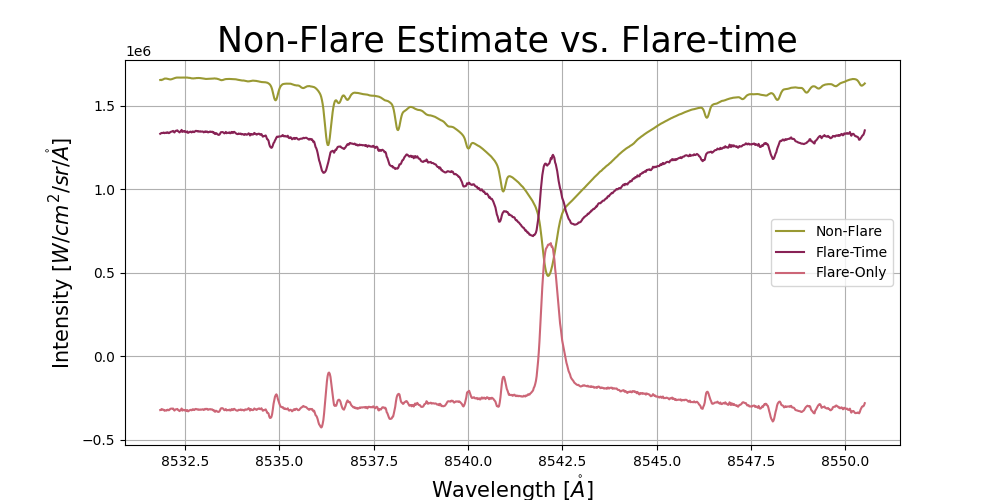
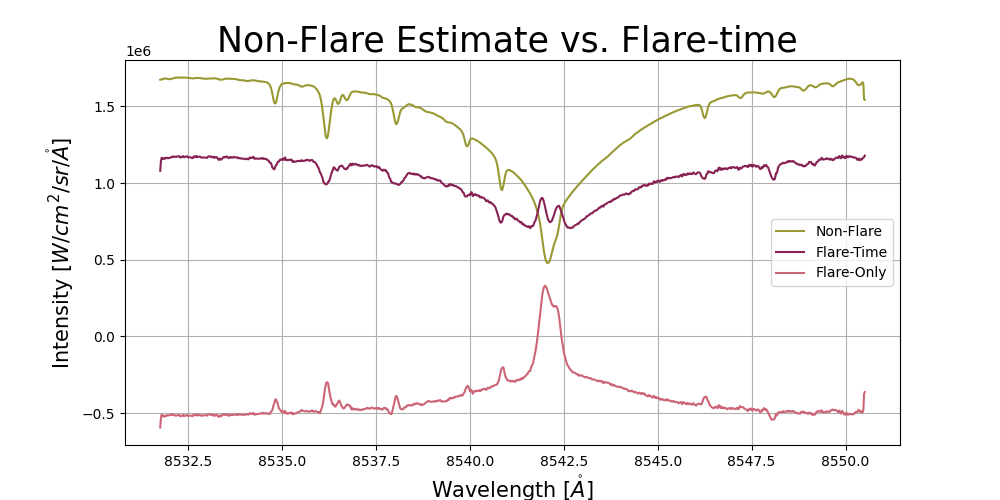
testing subtraction of pseudo-continuum in pid_1_38, trying to fit to early flare time

diff --git a/dkistpkg_ct.py b/dkistpkg_ct.py
@@ -322,7 +322,8 @@ def multistepprocess(path,folder1,dir_list2,div=10,startstep=0):
     times = []
     
     # extract relevant information
-    for i in range(0,round(len(dir_list2)/div)-startstep,1):
+    for i in range(0,round(len(dir_list2)/div),1):
+        
         i_file = fits.open(path+folder1+'/'+dir_list2[i+startstep])
         times.append(i_file[1].header['DATE-BEG'])
         i_data = i_file[1].data[0]
@@ -840,7 +841,9 @@ def fittingroutines(bkgd_subtract_flaretime,dispersion_range,
                     times_raster1, line_low, line_high,
                     double_gaussian, gaussian, selwl,sel,paramsgauss,
                     params2gauss,params2gaussneg,maxinds,pid='pid_1_84',
-                    date = '08/09/2022',line = 'Ca II H',nimg = 7):
+                    date = '08/09/2022',line = 'Ca II H',nimg = 7,
+                    inds=[410,460,510,520,590,600,610,620,630,640,650,660,670,680,690,700,
+                          720]):
     # More flexible line fitting routines; currently for Ca II H as observed
     # in pid_1_84, but flexible for application to other lines.  Currently also
     # only includes functinoality for single Gaussian and double Gaussian fits;
@@ -848,6 +851,8 @@ def fittingroutines(bkgd_subtract_flaretime,dispersion_range,
     
     # Returns, via scipy.optimize.curve_fit, both the fit parameters and the 
     # error metrics for each model
+    
+    # defaults currently for pid_1_38
     
     fits_1g = []
     fits_2g = []
@@ -859,9 +864,27 @@ def fittingroutines(bkgd_subtract_flaretime,dispersion_range,
     for j in range(nimg):
         kernind = maxinds[j]
         if l == 0:
+             
+            cont_int_array = bkgd_subtract_flaretime[j,inds,kernind]
+            cont_int_wave_array = dispersion_range[inds]
+            deg = 7
+            p = np.poly1d(np.polyfit(cont_int_wave_array,cont_int_array,deg))
+            nolines = p(dispersion_range)
             selwl = dispersion_range[line_low:line_high]
             sel = bkgd_subtract_flaretime[j,line_low:line_high,kernind]-\
-                min(bkgd_subtract_flaretime[j,line_low:line_high,kernind]) 
+                nolines[line_low:line_high]
+                
+            
+            
+            if j == 0:
+                fig,ax=plt.subplots()
+                ax.plot(selwl,sel)
+                ax.plot(dispersion_range,nolines)
+                ax.plot(dispersion_range,bkgd_subtract_flaretime[j,:,kernind])
+                ax.set_xlim([dispersion_range[0],dispersion_range[-1]])
+                plt.show()
+                
+                
             try:
                 fit2g, fit2gcov = curve_fit(double_gaussian,selwl,sel, 
                                             p0=params2gauss,
@@ -886,10 +909,15 @@ def fittingroutines(bkgd_subtract_flaretime,dispersion_range,
     for i in range(nimg):
         
         kernind = maxinds[i]
+        cont_int_array = bkgd_subtract_flaretime[j,inds,kernind]
+        cont_int_wave_array = dispersion_range[inds]
+        deg = 7
+        p = np.poly1d(np.polyfit(cont_int_wave_array,cont_int_array,deg))
+        nolines = p(dispersion_range)
         selwl = dispersion_range[line_low:line_high]
-        sel = bkgd_subtract_flaretime[i,line_low:line_high,kernind]-\
-            min(bkgd_subtract_flaretime[i,line_low:line_high,kernind])
-        
+        sel = bkgd_subtract_flaretime[j,line_low:line_high,kernind]-\
+            nolines[line_low:line_high]
+                
         try:
             
             fit1g, fit1gcov = curve_fit(gaussian,selwl,sel,p0=paramsgauss)
@@ -917,7 +945,9 @@ def pltfitresults(bkgd_subtract_flaretime,dispersion_range,double_gaussian,
                   pid='pid_1_84',
                   date = '08092022',line = 'Ca II H',nimg = 7,nrow=2,ncol=4,
                   lamb0 = 396.85,c=2.99e5,
-                  note='',lim=0.3e6):
+                  note='',lim=0.3e6,
+                  yhigh=1.5e6,inds=[410,460,510,520,590,600,610,620,630,640,650,660,670,680,690,700,
+                        720]):
     
     # plotting of the output of "fittingroutines"; can expand to beyond first
     # few image frames.  Tested 1 Dec 2023 for pid_1_84 Ca II H but not beyond
@@ -949,8 +979,15 @@ def pltfitresults(bkgd_subtract_flaretime,dispersion_range,double_gaussian,
     for i in range(nimg):
         kernind = maxinds[i]
         
+        kernind = maxinds[i]
+        cont_int_array = bkgd_subtract_flaretime[i,inds,kernind]
+        cont_int_wave_array = dispersion_range[inds]
+        deg = 7
+        p = np.poly1d(np.polyfit(cont_int_wave_array,cont_int_array,deg))
+        nolines = p(dispersion_range)
+        selwl = dispersion_range[line_low:line_high]
         sel = bkgd_subtract_flaretime[i,line_low:line_high,kernind]-\
-            min(bkgd_subtract_flaretime[i,line_low:line_high,kernind])
+            nolines[line_low:line_high]
         
         if i == 0:
             maxprofile = max(sel)
@@ -1009,6 +1046,7 @@ def pltfitresults(bkgd_subtract_flaretime,dispersion_range,double_gaussian,
                                                      functions=(veltrans,wltrans))
             ax.flatten()[l].xaxis.set_major_formatter(FormatStrFormatter('%.2f'))  
             ax.flatten()[l].set_title(times[i])
+            ax.flatten()[l].set_ylim([0,yhigh])
             
     secaxx = ax.flatten()[0].secondary_xaxis('top', functions=(veltrans,wltrans))
     secaxx.set_xlabel(r'Velocity $[km\; s^{-1}]$')
@@ -1648,7 +1686,8 @@ def calib_qs_shift(wlsel, ilamsel, dispersion_range, space_and_time_averaged_qs,
     return new_dispersion_range, rat
 
 def get_calibration_singleval(wave_obs, spec_obs, wave_atlas, spec_atlas, 
-                              limbdark_fact = 1.0, wave_idx=None, extra_weight=20., bounds=None):
+                              limbdark_fact = 1.0, wave_idx=None, extra_weight=20., bounds=None,
+                              noqs_flag = 0,noqs_ind = 20):
     """
     Get calibration offsets from fitting `spec_obs` to `spec_atlas`, assuming
     wavelength grids `wave_obs` and `wave_atlas`
@@ -1705,9 +1744,16 @@ def get_calibration_singleval(wave_obs, spec_obs, wave_atlas, spec_atlas,
     optim = differential_evolution(func_to_optimise, bounds)
     calibration = optim.x
     
+    # ONLY if observations have no quiet sun - choose index that most likely 
+    # corresponds to quiet sun, e.g. for pid_1_38
+    if noqs_flag == 1:
+        calibration[0] = spec_atlas[noqs_ind]/spec_obs[noqs_ind]
+    
     calibrated_qs = spec_obs * calibration[0]
     
     new_dispersion_range2 = wave_obs + (calibration[1])
+    
+
 
     return calibration, calibrated_qs, new_dispersion_range2
 

diff --git a/pid_1_38_analysis.py b/pid_1_38_analysis.py
@@ -63,16 +63,16 @@ clv_corr = DKISTanalysis.limbdarkening(wl, mu=mu, nm=True)
 # two different starting coefficients - one for QS observations, one for 
 # flare-time observations
 startstepqs = 0
-startstepflare = 0
+startstepflare = 2500
 
 # process multi-step raster - for qs time
 image_data_arr_arr_qs, rasterpos_qs, times_qs = \
-    DKISTanalysis.multistepprocess(path,folder1,dir_list2,div=1,
+    DKISTanalysis.multistepprocess(path,folder1,dir_list2,div=1000,
                                    startstep=startstepqs)
     
 # process multi-step raster - flaretime
 image_data_arr_arr, rasterpos, times = \
-    DKISTanalysis.multistepprocess(path,folder1,dir_list2,div=1,
+    DKISTanalysis.multistepprocess(path,folder1,dir_list2,div=50,
                                    startstep=startstepflare)
     
 # spatial and dispersion axes for single observation (single slit step)
@@ -89,7 +89,8 @@ space_and_time_averaged_qs = \
                                  timelow=0,timehigh=5)
 
 # telluric lines for comparison (or other absorption lines if telluric not 
-# available, as is the case for the Ca II H window)
+# available, as is the case for the Ca II H window).  Most of the next steps
+# are not used for pid_1_38, but include in any case to model the use of lines
 line1 = 853.801
 line2 = 854.804
 
@@ -107,11 +108,16 @@ new_dispersion_range, rat = \
 
 # final calibration - the output of above function is good as "initial guess"
 # to find best chi-squared fit with this function, below 
+
+# but for pid_1_38, observations are not in a quiet sun region, so this function
+# really just takes a single index to compare the atlas and the observations
+# and uses that as the multiplicative factor
 calibration, calibrated_qs,new_dispersion_range2= \
     DKISTanalysis.get_calibration_singleval(dispersion_range,\
                                             space_and_time_averaged_qs,\
                                                 wlsel,ilamsel,\
-                                                    limbdark_fact=clv_corr)
+                                                    limbdark_fact=clv_corr,
+                                                    noqs_flag = 1)
 
 # plotting intensity calibration results
 DKISTanalysis.plot_calibration(new_dispersion_range2,calibrated_qs,wlsel,ilamsel,
@@ -124,7 +130,7 @@ nonflare_multfact = np.full(len(dispersion_range), calibration[0])
 # intensity calibration, background subtraction                            
 scaled_flare_time, bkgd_subtract_flaretime = \
     DKISTanalysis.scaling(image_data_arr_arr, nonflare_multfact, clv_corr,
-                          nonflare_average)
+                          nonflare_average,end=1)
 
 
 # equivalent widths, effective widths, widths
@@ -133,6 +139,9 @@ caII_8542_high_foravg = 565
 
 caII_8542_low = 500
 caII_8542_high = 600
+
+caII_8542_low_for_fit = 490
+caII_8542_high_for_fit = 610
 
 spacelow = 1200
 spacehigh = 2000
@@ -204,26 +213,29 @@ selwl = dispersion_range[caII_8542_low:caII_8542_high]
 #                              caII_8542_low,caII_8542_high,store_ten_width,
 #                              store_quarter_width,store_half_width)
     
+nimg = 20
 # output fit parameters
-fits_1g,fits_2g,fits_2gneg = \
+fits_1g,fits_2g,fits_2gneg,= \
     DKISTanalysis.fittingroutines(bkgd_subtract_flaretime,new_dispersion_range2,
-                                  times, caII_8542_low, caII_8542_high,
+                                  times, caII_8542_low_for_fit, 
+                                  caII_8542_high_for_fit,
                                   DKISTanalysis.double_gaussian, 
                                   DKISTanalysis.gaussian, 
                                   selwl,sel,[1.1,854.28,0.05],
-                                  [.3e6,854.2,0.007,.6e6,854.22,0.02],
+                                  [.3e6,wl-0.01,0.01,.1e6,854.22,0.01],
                                   [.5e6,396.85,0.015,-1e6,396.85,0.015],
                                   maxindices,pid='pid_1_38', date = '04/20/2022',
-                                  line = 'Ca II 854.2',nimg = 500)
+                                  line = 'Ca II 854.2',nimg = nimg)
     
 # plot results of Gaussian fitting
+# yhigh will set the maximum for 
 DKISTanalysis.pltfitresults(bkgd_subtract_flaretime,new_dispersion_range2,
                             DKISTanalysis.double_gaussian,
                             DKISTanalysis.gaussian,times,muted,caII_8542_low,
                             caII_8542_high,fits_1g,fits_2g,fits_2gneg,
                             maxindices,pid='pid_1_38', date = '04202022',
-                            line = 'Ca 854.2', nimg = 500, nrow=4,ncol=5,
-                            note=', earliest?',lim=0.1,lamb0=854.209)
+                            line = 'Ca 854.2', nimg =nimg, nrow=4,ncol=5,
+                            note=', testing 12_12',lim=0.1,lamb0=wl)
     
 
 
